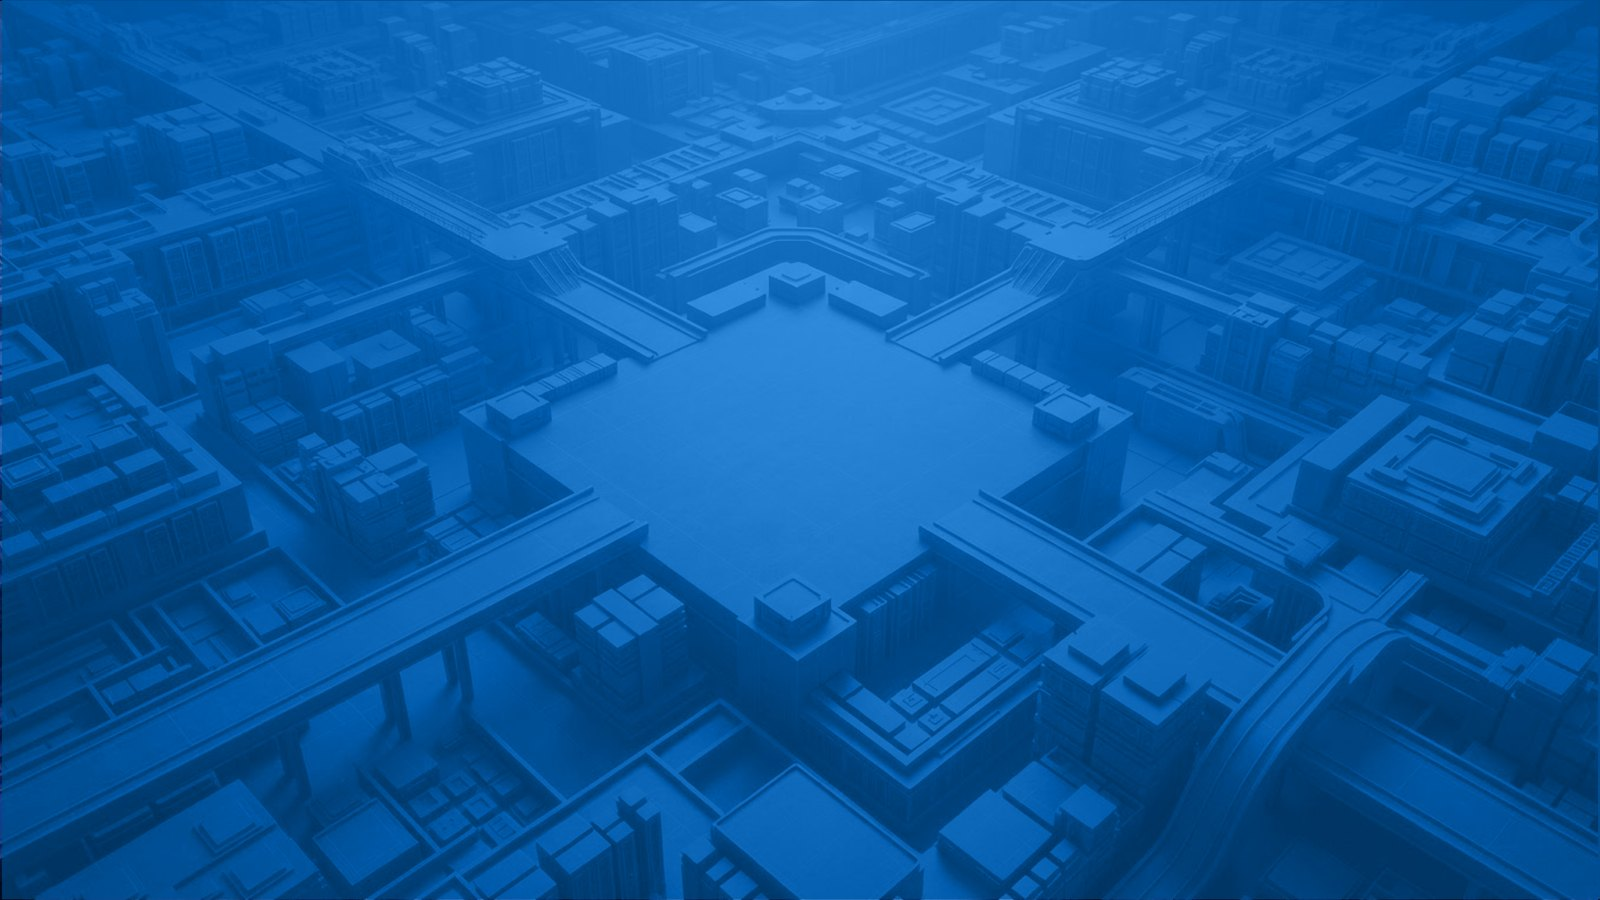
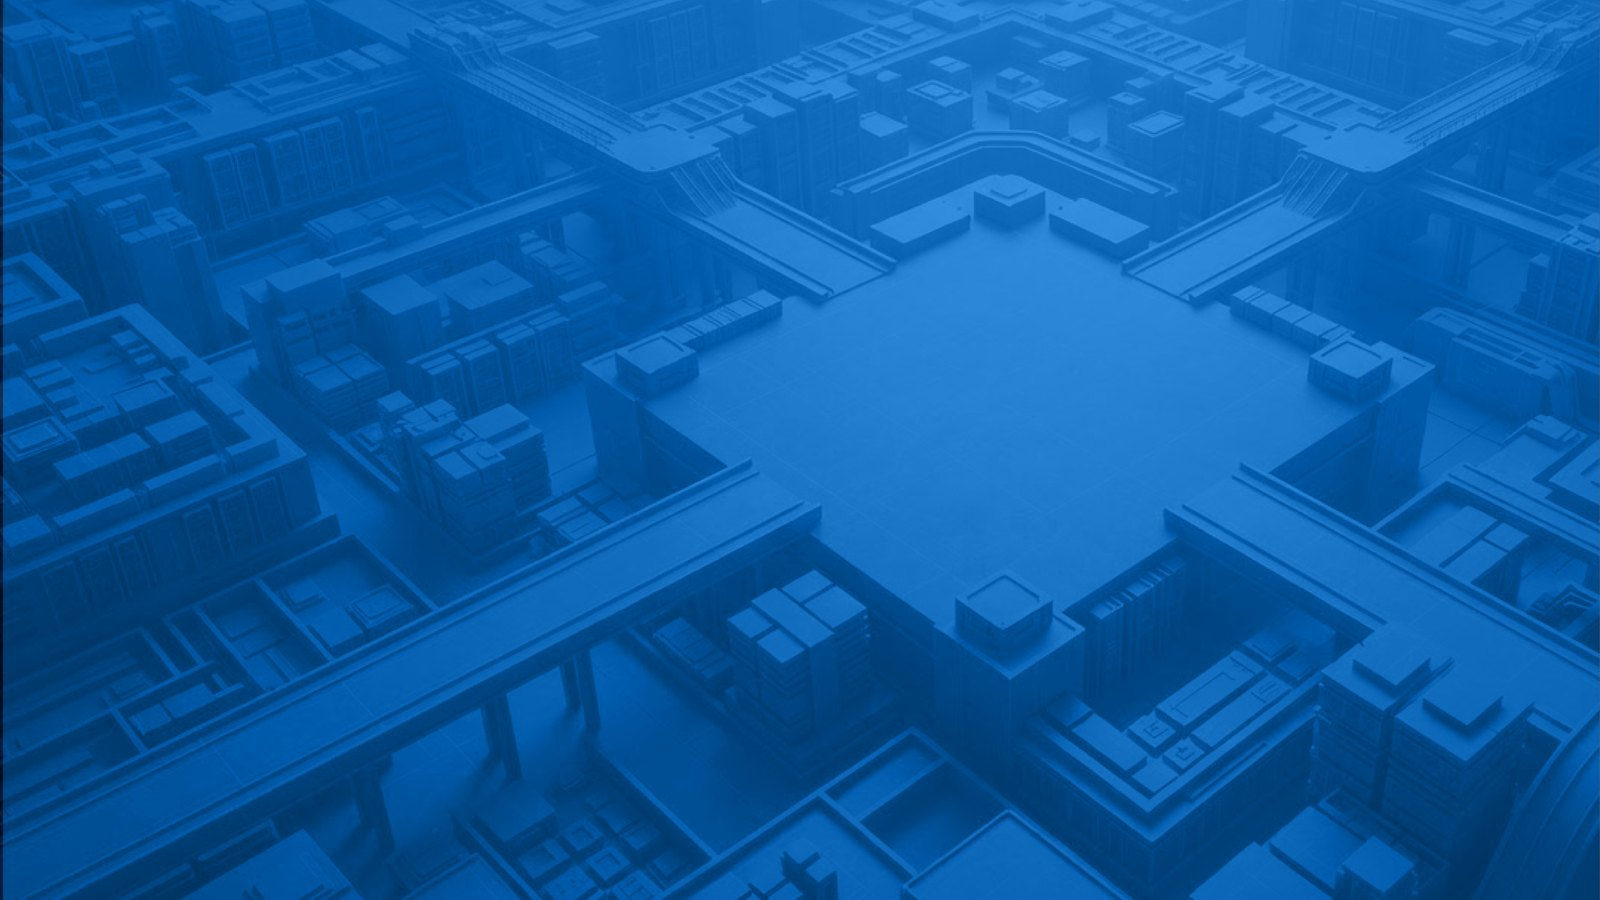
design: take the updated pool backgrounds from Figma
Evelyn has added a row of frames named after the pools, superseding the
For Demo row these were first pulled from. Same treatment: export the image
node rather than the frame, so her Rectangle 4 scrim is left behind and our
own .pool-bg is the only thing darkening the copy side.

Five of the six images sit inset from the left edge of their frame by 250 to
590px, with the frame's dark band behind the copy, so exporting the node
gives back something narrower than 16:9. Rebuilding that band by mirroring
the adjacent artwork produced a visible seam on the strategy plate where its
diagonals met their reflection, so the plates are centre-cropped to 16:9
instead. The band is decoration the scrim already provides and cropping
invents nothing.

Contrast re-measured over the real title, hook and bullet boxes with the
scrim applied per column: the tightest case is the hook at 6.42:1 against
the 4.5 it needs, a 1.43x margin, and every plate clears comfortably.

Verified in the running build that each pool resolves its own texture at
1600x900 through the cross-fade pair.

diff --git a/README.md b/README.md
@@ -211,10 +211,20 @@ resolve-if-present behaviour as the videos, so a bad filename never breaks it.
 **These are Evelyn's, exported from Figma on 28 Aug.** They replace the generated
 placeholders entirely, so nothing in this folder is stand-in artwork any more.
 
-Source: the `Backgrounds 3.0` page, `For Demo` row. Each section frame there holds
-the full-resolution background as a separate image fill under the mockup UI, so
-the plates are pulled clean with no text baked in. They are centre-cropped to
-16:9 and saved at 1600x900, matching what the plate quads sample.
+Source: the `Backgrounds 3.0` page, the row of frames named after the pools
+(`AI Strategy & Engineering`, `Data for AI` and so on), which supersedes the
+earlier `For Demo` row. Each frame holds the background as
+its own image node plus `Rectangle 4`, a left-hand scrim. Only the image node is
+exported: our own `.pool-bg` already darkens that side, and baking hers in would
+scrim it twice.
+
+Five of the six images are inset from the left edge of their frame by 250 to
+590px, with the frame's dark band showing behind the copy. Exporting the node
+therefore yields something narrower than 16:9. Rebuilding that band by mirroring
+the adjacent artwork left a visible seam on the strategy plate, where its
+diagonals met their own reflection, so the plates are simply centre-cropped to
+16:9 instead. The band is decoration the scrim already supplies, and cropping
+introduces no invented pixels.
 
 Art direction from the 25 Aug review: one blue tone throughout, soft 3D and
 slightly realistic, with the pools separated by subject rather than by hue. The
